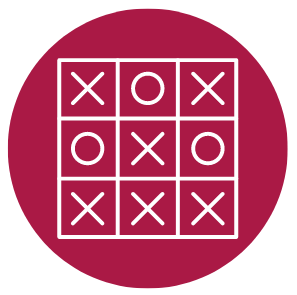
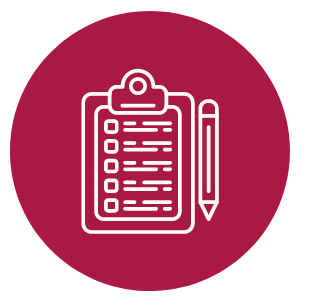
added new project

diff --git a/project_five.html b/project_five.html
@@ -9,7 +9,7 @@
       src="https://kit.fontawesome.com/ba4c8dc756.js"
       crossorigin="anonymous"
     ></script>
-    <title>Tic tac toe</title>
+    <title>To do list</title>
   </head>
   <body>
     <div class="transition">
@@ -19,10 +19,9 @@
             <a href="index.html#projects"
               ><i class="fa-regular fa-circle-left"></i
             ></a>
-            <h1>Tic tac toe</h1>
+            <h1>To do list</h1>
             <p>
-              Tic tac toe is a game where you can play a round against the
-              computer.
+              To do list is an application where you can add all the important to do's so you don't forget. 
             </p>
           </div>
           <div class="image">
@@ -31,33 +30,31 @@
           <div class="text">
             <h2>Project overview</h2>
             <p>
-              This game was fun to build, I was introduced to module pattern and
-              factory functions, so i took a bit different approach. The goal
-              was not to have any global variables.
+              This project definitely took the most time. It has a lot of details and important parts you cannot overlook. 
+              The basis of this project were CRUD operations - to be able to create, read, update and delete each project and each task.
+              MVC - to separate view from logic. I used webpack and added date-fns library to easier filter tasks for the coming week.
             </p>
-            <p>I made my own svgs in figma and added them to css.</p>
+            <p>I made the simple and clean design in figma along with the logo.</p>
             <p>
-              I was trying to think outside of the box and make it a bit
-              differently, since everyone uses standard X's and O's, i used
-              owls. You can choose one out of 4 owls.
+              This project is the first one that has the local storage, so you can leave tasks on and they will stay there. 
             </p>
             <p>
-              My next step is to take this game a bit further and implement AI,
-              to make the game more fun.
+              I have a lot more ideas for this project, like adding an option to sign in, connecting calendar on the computer/phone and maybe even a quote of the day to make it nicer. 
             </p>
-            <p>The whole game is responsive.</p>
+            <p>The project is responsive</p>
 
             <ul>
               Technologies used
               <li>HTML</li>
               <li>CSS</li>
               <li>JavaScript</li>
+              <li>webpack</li>
             </ul>
             <div class="buttons">
-              <a href="https://mashha.github.io/tic-tac-toe/" target="_blank"
+              <a href="https://mashha.github.io/to-do-list/" target="_blank"
                 >Live version</a
               >
-              <a href="https://github.com/Mashha/tic-tac-toe" target="_blank"
+              <a href="https://github.com/Mashha/to-do-list" target="_blank"
                 >Code</a
               >
             </div>

diff --git a/index.html b/index.html
@@ -124,14 +124,14 @@
           </div>
           <div class="project">
             <div class="project-inner">
-              <h1>Tic Tac Toe</h1>
+              <h1>To do list</h1>
               <img src="./images/icon-five.png" alt="" />
             </div>
             <a href="./project_five.html" class="link-project">Case study</a>
           </div>
           <div class="project">
             <div class="project-inner">
-              <h1>To do list (soon)</h1>
+              <h1>Weather app (in progress)</h1>
               <img src="./images/icon-six.png" alt="" />
             </div>
             <a href="#" class="link-project">Coming soon</a>

diff --git a/project_six.html b/project_six.html
@@ -4,7 +4,7 @@
     <meta charset="UTF-8" />
     <meta http-equiv="X-UA-Compatible" content="IE=edge" />
     <meta name="viewport" content="width=device-width, initial-scale=1.0" />
-    <title>To do list</title>
+    <title>Weather app</title>
   </head>
   <body>
     <!-- in progress -->
